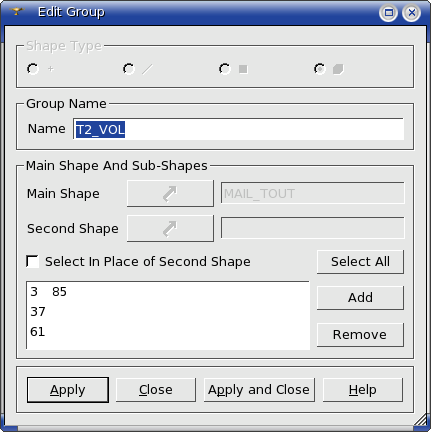
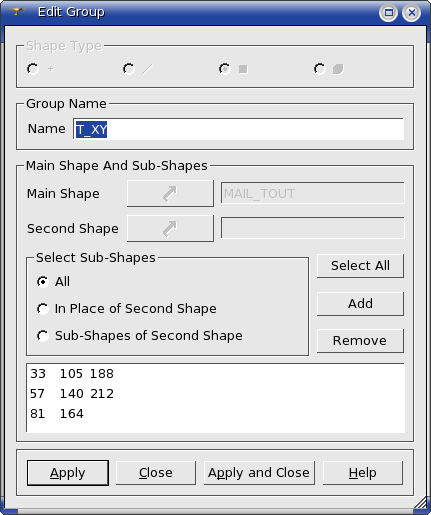
PAL14047 Problem to select merged face with Create group window       redesign GroupDlg

Changed region(s): [[0.0, 0.0, 1.0, 1.0], [0.9954, 0.0602, 1.0, 0.1204], [0.5128, 0.5417, 0.5429, 0.5718]]

diff --git a/src/GroupGUI/GroupGUI_GroupDlg.h b/src/GroupGUI/GroupGUI_GroupDlg.h
@@ -37,7 +37,8 @@ class QGroupBox;
 class QLineEdit;
 class QListBox;
 
-class QRadioButton;
+//class QRadioButton;
+class QButtonGroup;
 
 //=================================================================================
 // class    : GroupGUI_GroupDlg
@@ -83,6 +84,7 @@ private:
     void                                Init();
     void                                enterEvent( QEvent* e );
     int                                 getConstructorId() const;    
+    int                                 subSelectionWay() const;    
     TopAbs_ShapeEnum                    getShapeType() const;
     void                                setShapeType( const TopAbs_ShapeEnum );
     void                                activateSelection();
@@ -103,8 +105,9 @@ private:
   QLineEdit*                      myMainName;
   QPushButton*                    mySelBtn2;
   QLineEdit*                      myShape2Name;
-  QRadioButton*                   mySelSubBtn;
-  QCheckBox*                      myPlaceCheckBox;
+  QButtonGroup*                   mySelectionWayGroup;
+  //QRadioButton*                   mySelSubBtn;
+  //QCheckBox*                      myPlaceCheckBox;
   QPushButton*                    mySelAllBtn;
   QPushButton*                    myAddBtn;
   QPushButton*                    myRemBtn;
